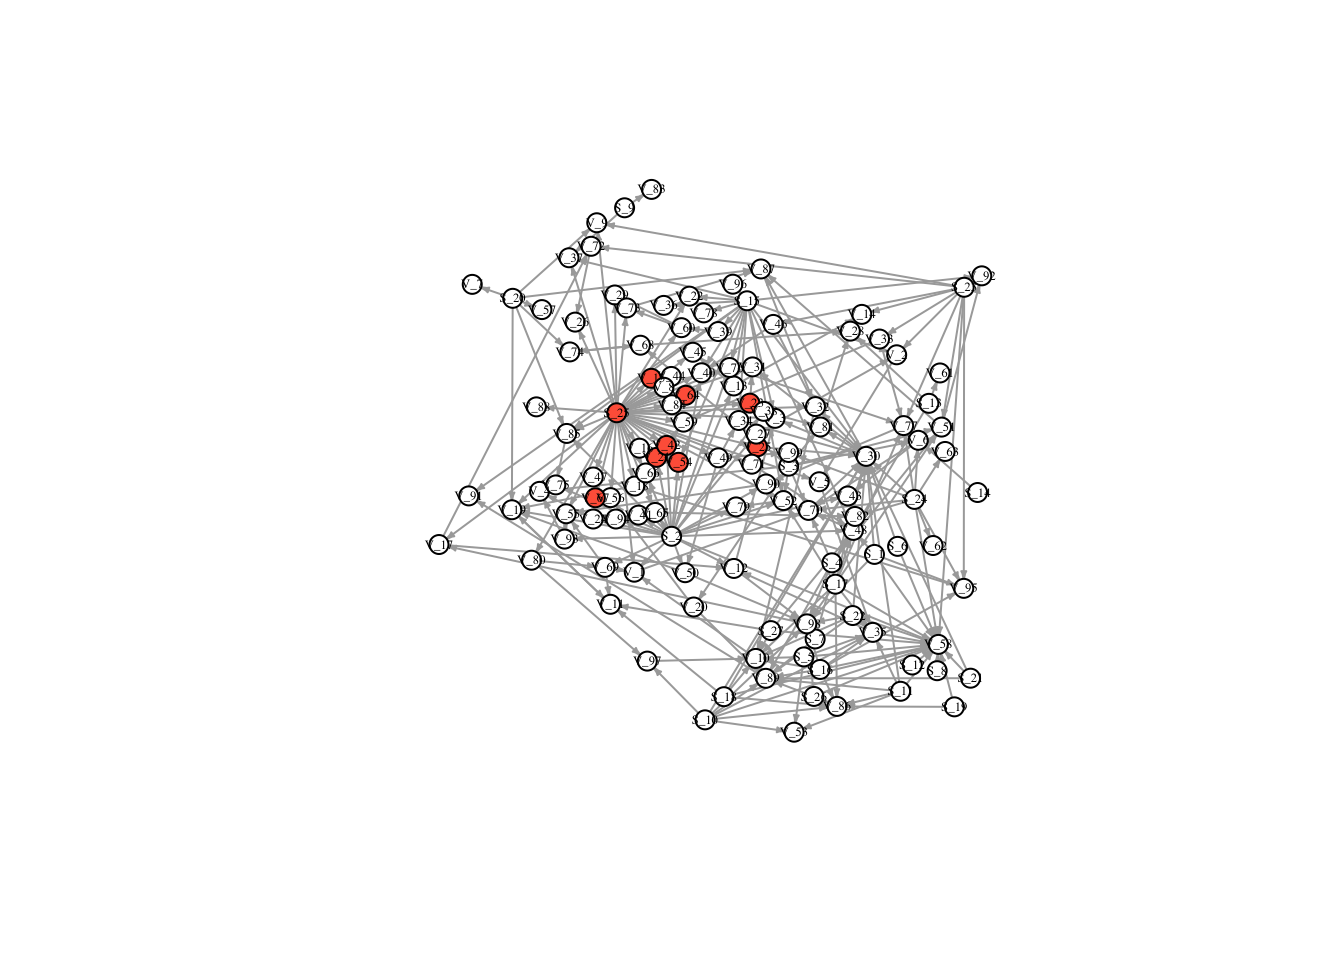
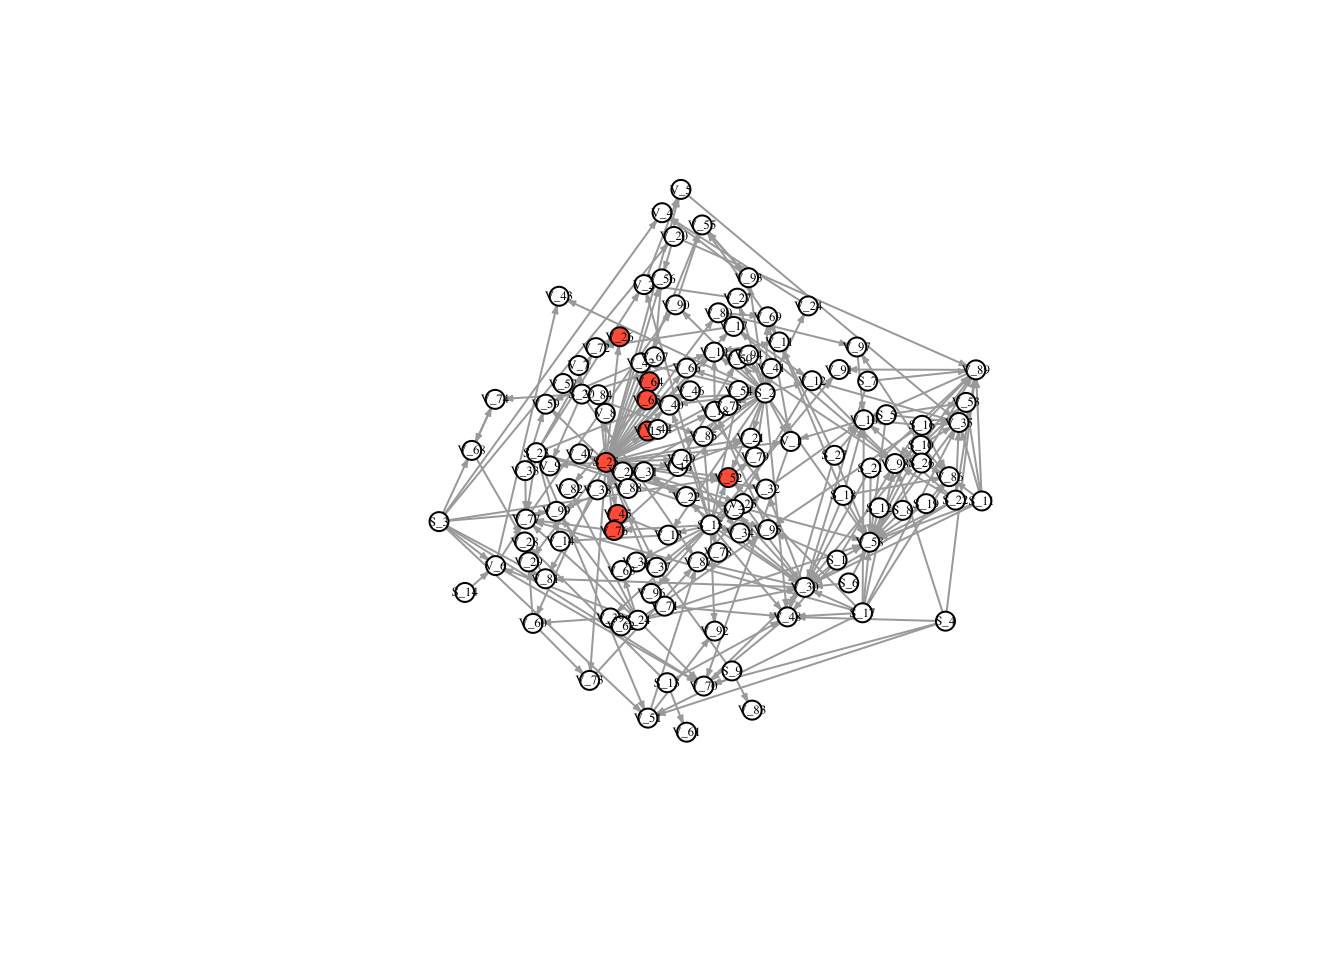
Update

Changed region(s): [[0.3125, 0.1875, 0.75, 0.7812]]

diff --git a/EpidemicNetworks.html b/EpidemicNetworks.html
@@ -343,8 +343,30 @@ div.tocify {
 <div id="matrices-in-r-epidemic-spread-over-time" class="section level2">
 <h2>Matrices in R: Epidemic spread over time</h2>
 <p>First, load the libraries that we will use in this module.</p>
-<div class="sourceCode"><pre class="sourceCode r"><code class="sourceCode r"><span class="kw">library</span>(igraph)
-<span class="kw">library</span>(tidyverse)</code></pre></div>
+<div class="sourceCode"><pre class="sourceCode r"><code class="sourceCode r"><span class="kw">library</span>(igraph)</code></pre></div>
+<pre><code>## 
+## Attaching package: &#39;igraph&#39;</code></pre>
+<pre><code>## The following objects are masked from &#39;package:stats&#39;:
+## 
+##     decompose, spectrum</code></pre>
+<pre><code>## The following object is masked from &#39;package:base&#39;:
+## 
+##     union</code></pre>
+<div class="sourceCode"><pre class="sourceCode r"><code class="sourceCode r"><span class="kw">library</span>(tidyverse)</code></pre></div>
+<pre><code>## ── Attaching packages ──────────────────────────────────────────────────────────────────── tidyverse 1.2.1 ──</code></pre>
+<pre><code>## ✔ ggplot2 3.1.0     ✔ purrr   0.2.5
+## ✔ tibble  2.0.1     ✔ dplyr   0.7.8
+## ✔ tidyr   0.8.1     ✔ stringr 1.3.1
+## ✔ readr   1.1.1     ✔ forcats 0.3.0</code></pre>
+<pre><code>## Warning: package &#39;tibble&#39; was built under R version 3.5.2</code></pre>
+<pre><code>## ── Conflicts ─────────────────────────────────────────────────────────────────────── tidyverse_conflicts() ──
+## ✖ dplyr::as_data_frame() masks tibble::as_data_frame(), igraph::as_data_frame()
+## ✖ purrr::compose()       masks igraph::compose()
+## ✖ tidyr::crossing()      masks igraph::crossing()
+## ✖ dplyr::filter()        masks stats::filter()
+## ✖ dplyr::groups()        masks igraph::groups()
+## ✖ dplyr::lag()           masks stats::lag()
+## ✖ purrr::simplify()      masks igraph::simplify()</code></pre>
 <p>Using the symbol ’*‘in R multiplies each element of a matrix by the corresponding element of another matrix. This is ’element-wise multiplication’, rather than matrix multiplication.</p>
 <div class="sourceCode"><pre class="sourceCode r"><code class="sourceCode r">X1 &lt;-<span class="st"> </span><span class="kw">matrix</span>(<span class="dv">1</span><span class="op">:</span><span class="dv">9</span>,<span class="dt">ncol=</span><span class="dv">3</span>)
 X1</code></pre></div>
@@ -482,16 +504,16 @@ Amat &lt;-<span class="st"> </span>Amat<span class="op">*</span><span class="dv"
 <span class="kw">diag</span>(Amat) &lt;-<span class="st"> </span><span class="dv">1</span> <span class="co"># set the diagonals to 1 so that if a node is infected, it stays infected</span>
 Amat <span class="co"># our randomly generated matrix</span></code></pre></div>
 <pre><code>##       [,1] [,2] [,3] [,4] [,5] [,6] [,7] [,8] [,9] [,10]
-##  [1,]    1    1    1    0    0    0    1    1    0     1
-##  [2,]    1    1    1    0    0    0    1    0    1     1
-##  [3,]    0    1    1    1    1    0    0    1    1     1
-##  [4,]    1    0    1    1    0    0    1    0    0     0
-##  [5,]    0    0    0    0    1    1    0    1    1     0
-##  [6,]    1    0    0    1    0    1    1    1    0     0
-##  [7,]    0    0    1    0    1    0    1    0    0     0
-##  [8,]    0    1    0    0    0    1    0    1    1     1
-##  [9,]    0    0    0    0    0    1    0    1    1     0
-## [10,]    0    1    1    0    0    1    0    0    0     1</code></pre>
+##  [1,]    1    0    0    1    0    0    0    0    0     0
+##  [2,]    0    1    0    1    0    1    0    1    1     0
+##  [3,]    0    0    1    0    0    0    1    0    1     0
+##  [4,]    0    0    0    1    0    1    0    0    0     1
+##  [5,]    0    0    0    0    1    0    0    0    0     1
+##  [6,]    0    0    0    1    0    1    0    0    0     0
+##  [7,]    0    0    0    0    0    1    1    1    0     0
+##  [8,]    0    0    1    1    0    0    0    1    0     0
+##  [9,]    0    0    0    1    0    0    0    0    1     0
+## [10,]    0    1    0    1    1    0    1    0    0     1</code></pre>
 <p> </p>
 <p>Plot to see you network</p>
 <div class="sourceCode"><pre class="sourceCode r"><code class="sourceCode r">Mat3 &lt;-<span class="st"> </span><span class="kw">graph_from_adjacency_matrix</span>(Amat)
@@ -507,15 +529,15 @@ df &lt;-<span class="st"> </span><span class="kw">cbind</span>(Time1,Time2)
 df</code></pre></div>
 <pre><code>##       Time1 Time2
 ##  [1,]     1     1
-##  [2,]     0     1
+##  [2,]     0     0
 ##  [3,]     0     1
 ##  [4,]     0     1
-##  [5,]     0     1
+##  [5,]     0     0
 ##  [6,]     1     1
 ##  [7,]     1     1
 ##  [8,]     1     1
 ##  [9,]     1     1
-## [10,]     0     1</code></pre>
+## [10,]     0     0</code></pre>
 </div>
 </div>
 <div id="case-study-sweetpotato-in-uganda" class="section level2">
@@ -577,9 +599,9 @@ fix.layout &lt;-<span class="st"> </span><span class="kw">layout_with_dh</span>(
 FullNet2 &lt;-<span class="st"> </span><span class="kw">as.matrix</span>(FullNet)
 FullNet3 &lt;-<span class="st"> </span><span class="kw">graph_from_adjacency_matrix</span>(FullNet2)
 FullNet3</code></pre></div>
-<pre><code>## IGRAPH 1792934 DN-- 126 283 -- 
+<pre><code>## IGRAPH c4fd8ca DN-- 126 283 -- 
 ## + attr: name (v/c)
-## + edges from 1792934 (vertex names):
+## + edges from c4fd8ca (vertex names):
 ##  [1] S_1 -&gt;V_30 S_1 -&gt;V_48 S_1 -&gt;V_58 S_1 -&gt;V_95 S_1 -&gt;V_98 S_10-&gt;V_30
 ##  [7] S_10-&gt;V_35 S_10-&gt;V_53 S_10-&gt;V_58 S_10-&gt;V_86 S_10-&gt;V_89 S_10-&gt;V_97
 ## [13] S_10-&gt;V_98 S_11-&gt;V_30 S_11-&gt;V_35 S_11-&gt;V_53 S_11-&gt;V_58 S_11-&gt;V_86
@@ -740,8 +762,10 @@ v_<span class="dv">9</span>
 v_<span class="dv">9</span> &lt;-<span class="st"> </span><span class="kw">as.numeric</span>(v_<span class="dv">9</span> <span class="op">&gt;</span><span class="st"> </span><span class="dv">0</span>)
 <span class="kw">as_tibble</span>(v_<span class="dv">9</span>)
 timestatus &lt;-<span class="st"> </span><span class="kw">cbind</span>(nodes, vec, v_<span class="dv">2</span>, v_<span class="dv">3</span>, v_<span class="dv">4</span>, v_<span class="dv">5</span>, v_<span class="dv">6</span>, v_<span class="dv">7</span>, v_<span class="dv">8</span>, v_<span class="dv">9</span>)
-timestatus &lt;-<span class="st"> </span><span class="kw">as.tibble</span>(timestatus)
-timestatus
+timestatus &lt;-<span class="st"> </span><span class="kw">as.tibble</span>(timestatus)</code></pre></div>
+<pre><code>## Warning: `as.tibble()` is deprecated, use `as_tibble()` (but mind the new semantics).
+## This warning is displayed once per session.</code></pre>
+<div class="sourceCode"><pre class="sourceCode r"><code class="sourceCode r">timestatus
 
 
 #### Time 10
@@ -861,16 +885,16 @@ Spread10</code></pre></div>
 ## # Groups:   Sim [?]
 ##      Sim  Step Number_of_Nodes
 ##    &lt;dbl&gt; &lt;dbl&gt;           &lt;dbl&gt;
-##  1     1     1               2
-##  2     1     2               7
-##  3     1     3              11
+##  1     1     1               5
+##  2     1     2               8
+##  3     1     3              10
 ##  4     1     4              15
-##  5     1     5              16
-##  6     1     6              21
-##  7     1     7              26
-##  8     1     8              29
-##  9     1     9              32
-## 10     1    10              37
+##  5     1     5              20
+##  6     1     6              25
+##  7     1     7              28
+##  8     1     8              32
+##  9     1     9              38
+## 10     1    10              38
 ## # … with 90 more rows</code></pre>
 <div class="sourceCode"><pre class="sourceCode r"><code class="sourceCode r">plot &lt;-<span class="st">  </span><span class="kw">ggplot</span>(<span class="dt">data =</span> Spread10, <span class="dt">mapping =</span> (<span class="kw">aes</span>(<span class="dt">x =</span> Step, <span class="dt">y =</span> Number_of_Nodes))) <span class="op">+</span><span class="st"> </span>
 <span class="st">  </span><span class="kw">geom_jitter</span>(<span class="dt">color =</span> <span class="st">&quot;gray70&quot;</span>) <span class="op">+</span>
